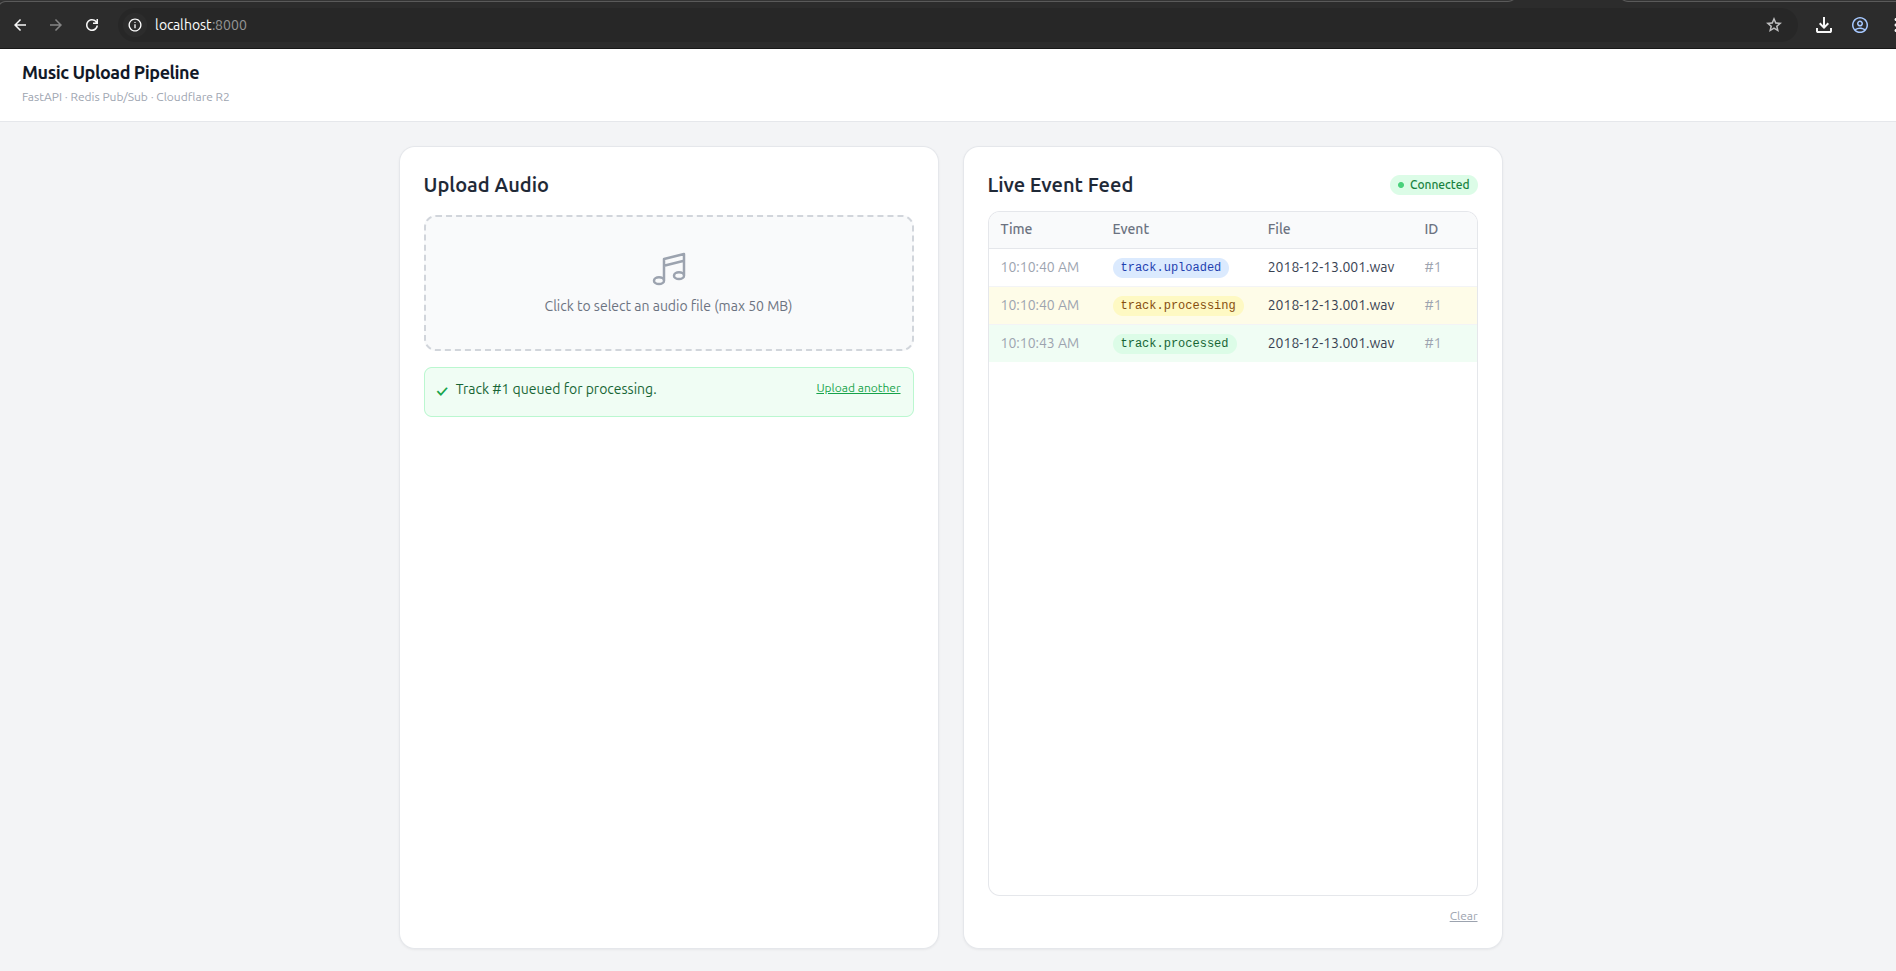
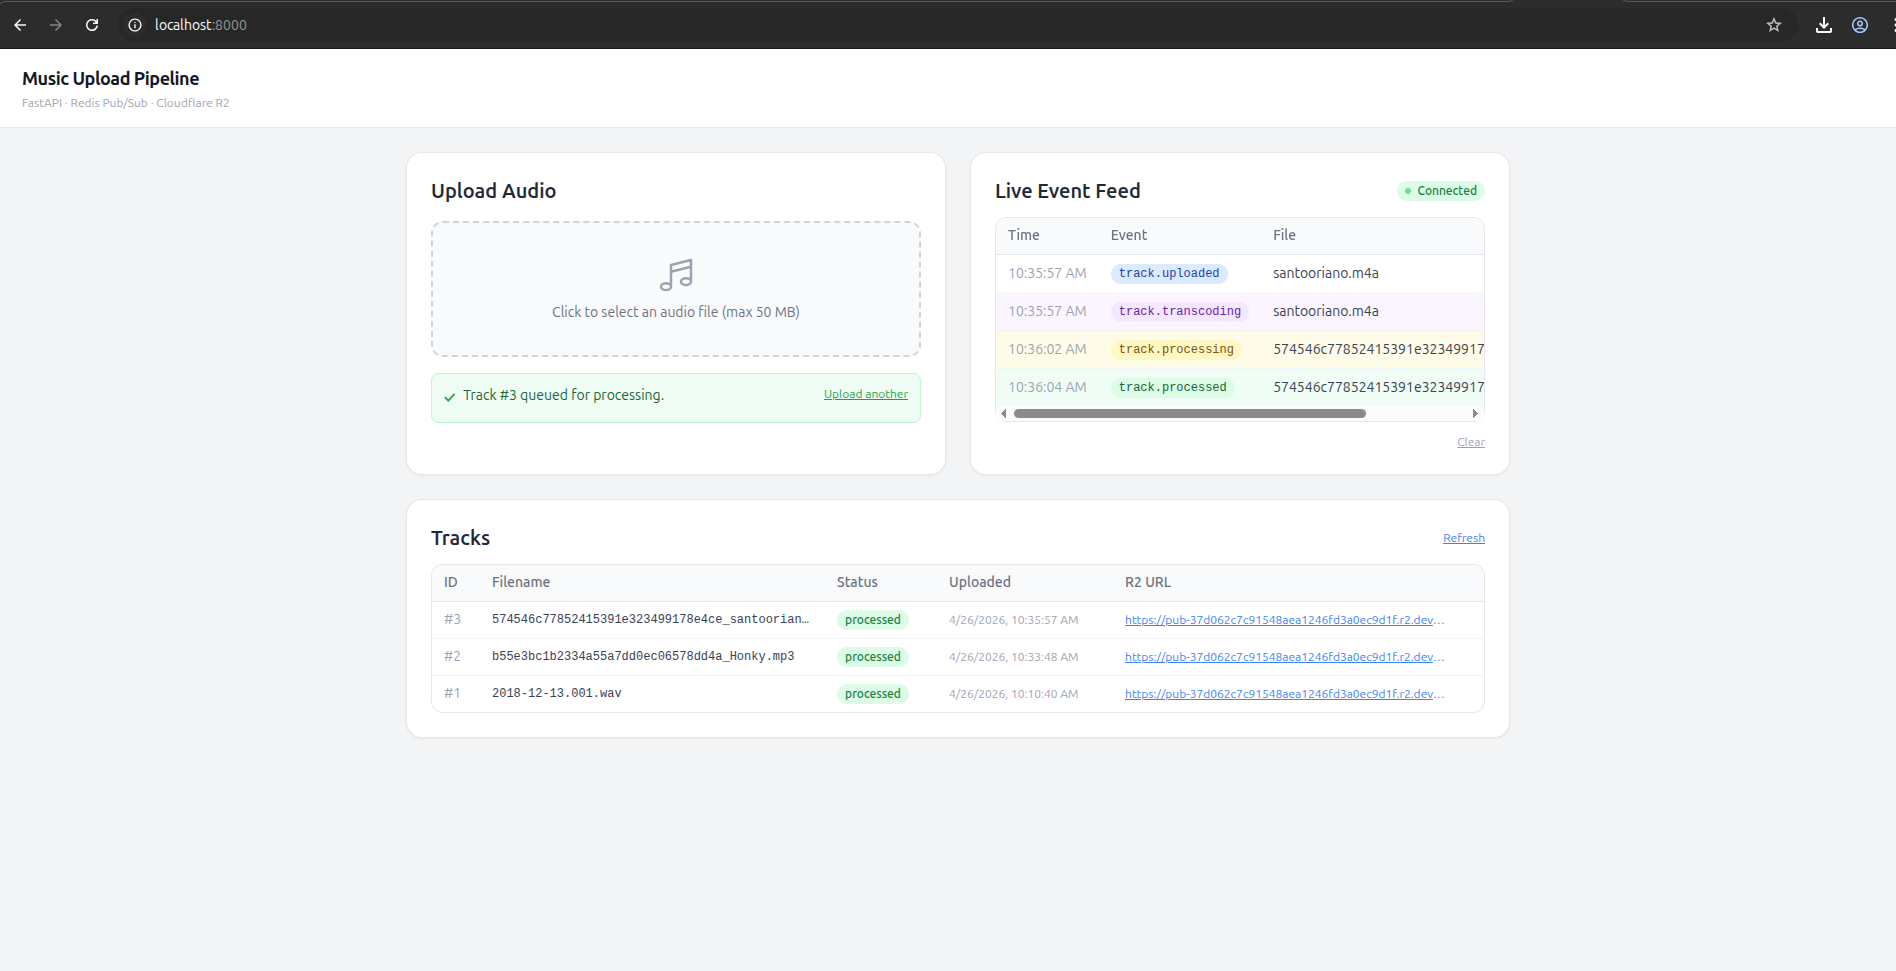
update branding

diff --git a/ui/index.html b/ui/index.html
@@ -4,7 +4,7 @@
     <meta charset="UTF-8" />
     <link rel="icon" type="image/svg+xml" href="/favicon.svg" />
     <meta name="viewport" content="width=device-width, initial-scale=1.0" />
-    <title>ui</title>
+    <title>Music Upload Pipeline</title>
   </head>
   <body>
     <div id="root"></div>
